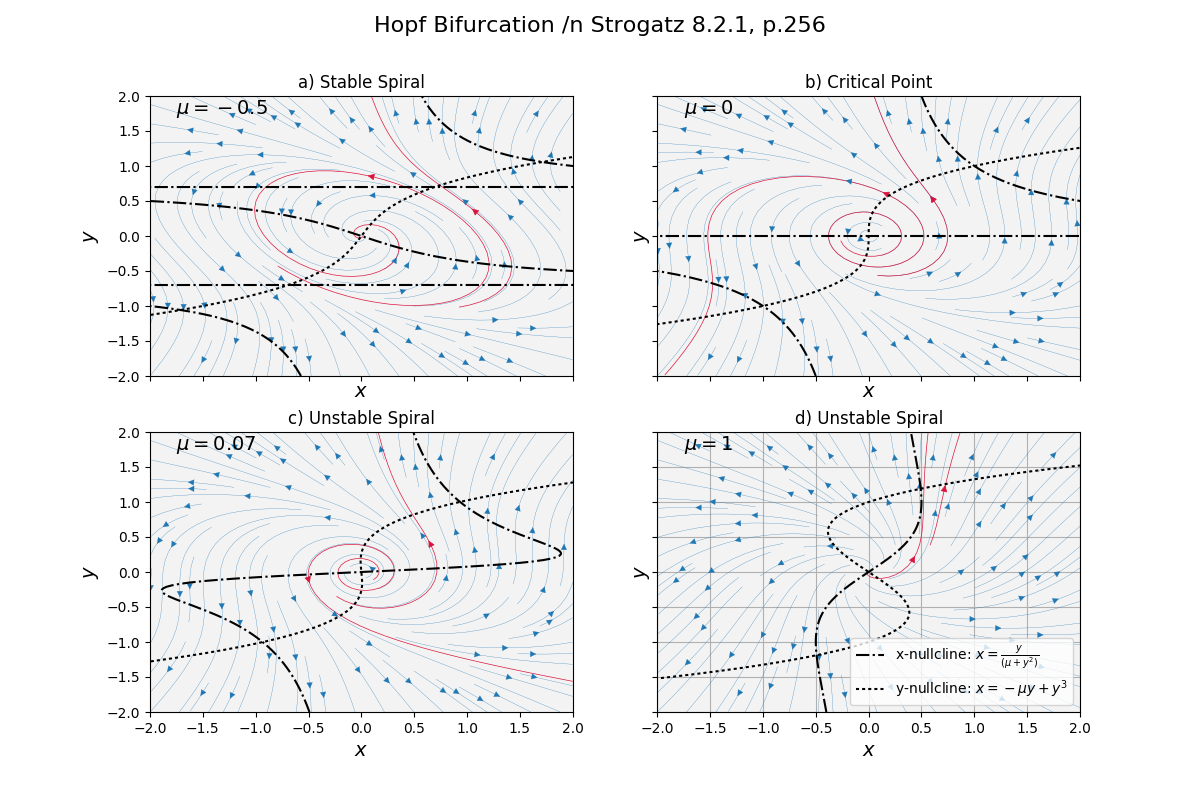
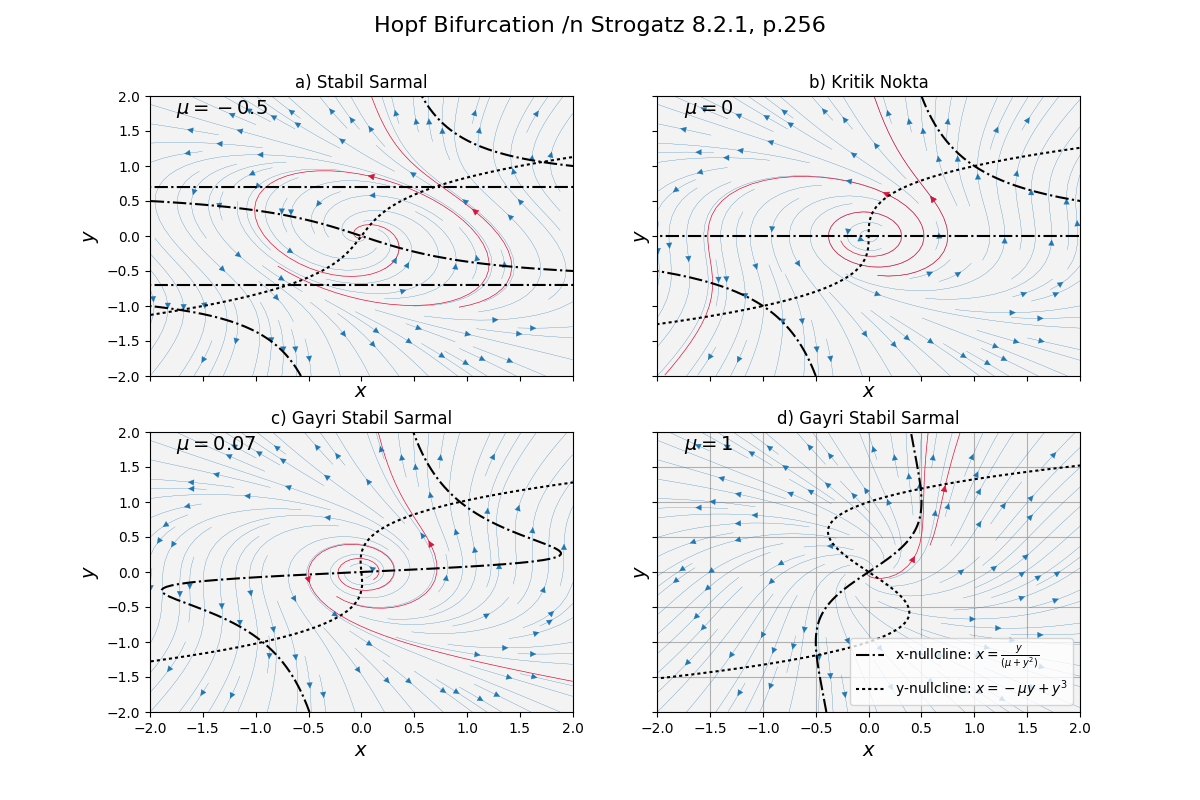
-

diff --git a/chaos/chaos_13/ex8.2.1.py b/chaos/chaos_13/ex8.2.1.py
@@ -35,7 +35,7 @@ start = [[0.3,0],[1.4,-.35]]
 strm = ax0.streamplot( X,Y,U, V,linewidth=.2)
 strmS = ax0.streamplot(x1,y1, U, V, start_points=start, color="crimson", linewidth=.5)
 fig.suptitle('Hopf Bifurcation /n Strogatz 8.2.1, p.256', size=16)
-ax0.set_title( 'a) Stable Spiral', size=12)
+ax0.set_title( 'a) Stabil Sarmal', size=12)
 ax0.text(xmin+.25,ymax-.25, r'$\mu = {0}$'.format(mu),size=14)
 ax0.plot(y1/(mu+y1**2),x1, 'k-.',lw=lw, label=r'x-nullcline: $x = \frac{y}{(\mu+y^2)}$')
 ax0.plot(-mu*y1+y1**3,x1, 'k:', lw=lw, label=r'y-nullcline: $x =  -\mu y + y^3}$')
@@ -56,7 +56,7 @@ start = [[0.3,0],[.6,.5]]
 strm = ax1.streamplot( X,Y,U, V,linewidth=.2)
 strmS = ax1.streamplot(x1,y1, U, V, start_points=start, color="crimson", linewidth=.5)
 
-ax1.set_title( 'b) Critical Point', size=12)
+ax1.set_title( 'b) Kritik Nokta', size=12)
 ax1.text(xmin+.25,ymax-.25, r'$\mu = {0}$'.format(mu),size=14)
 ax1.plot(y1/(mu+y1**2),x1, 'k-.',lw=lw, label=r'x-nullcline: $x = \frac{y}{(\mu+y^2)}$')
 ax1.plot(-mu*y1+y1**3,x1, 'k:', lw=lw, label=r'y-nullcline: $x =  -\mu y + y^3}$')
@@ -76,7 +76,7 @@ start = [[0.3,0],[.6,.5]]
 strm = ax2.streamplot( X,Y,U, V,linewidth=.2)
 strmS = ax2.streamplot(x1,y1, U, V, start_points=start, color="crimson", linewidth=.5)
 
-ax2.set_title( 'c) Unstable Spiral', size=12)
+ax2.set_title( 'c) Gayri Stabil Sarmal', size=12)
 ax2.text(xmin+.25,ymax-.25, r'$\mu = {0}$'.format(mu),size=14)
 ax2.plot(y1/(mu+y1**2),x1, 'k-.',lw=lw, label=r'x-nullcline: $x = \frac{y}{(\mu+y^2)}$')
 ax2.plot(-mu*y1+y1**3,x1, 'k:', lw=lw, label=r'y-nullcline: $x =  -\mu y + y^3}$')
@@ -96,7 +96,7 @@ start = [[0.3,0],[.6,.5]]
 strm = ax3.streamplot( X,Y,U, V,linewidth=.2)
 strmS = ax3.streamplot(x1,y1, U, V, start_points=start, color="crimson", linewidth=.5)
 
-ax3.set_title( 'd) Unstable Spiral', size=12)
+ax3.set_title( 'd) Gayri Stabil Sarmal', size=12)
 ax3.text(xmin+.25,ymax-.25, r'$\mu = {0}$'.format(mu),size=14)
 ax3.plot(y1/(mu+y1**2),x1, 'k-.',lw=lw, label=r'x-nullcline: $x = \frac{y}{(\mu+y^2)}$')
 ax3.plot(-mu*y1+y1**3,x1, 'k:', lw=lw, label=r'y-nullcline: $x =  -\mu y + y^3}$')
